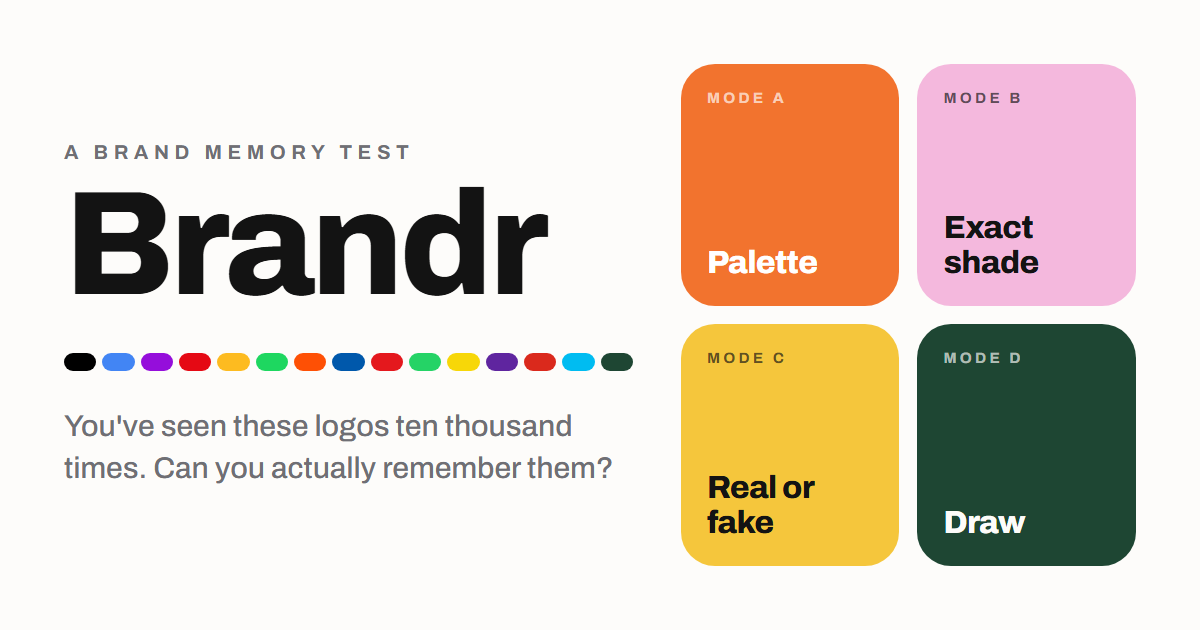
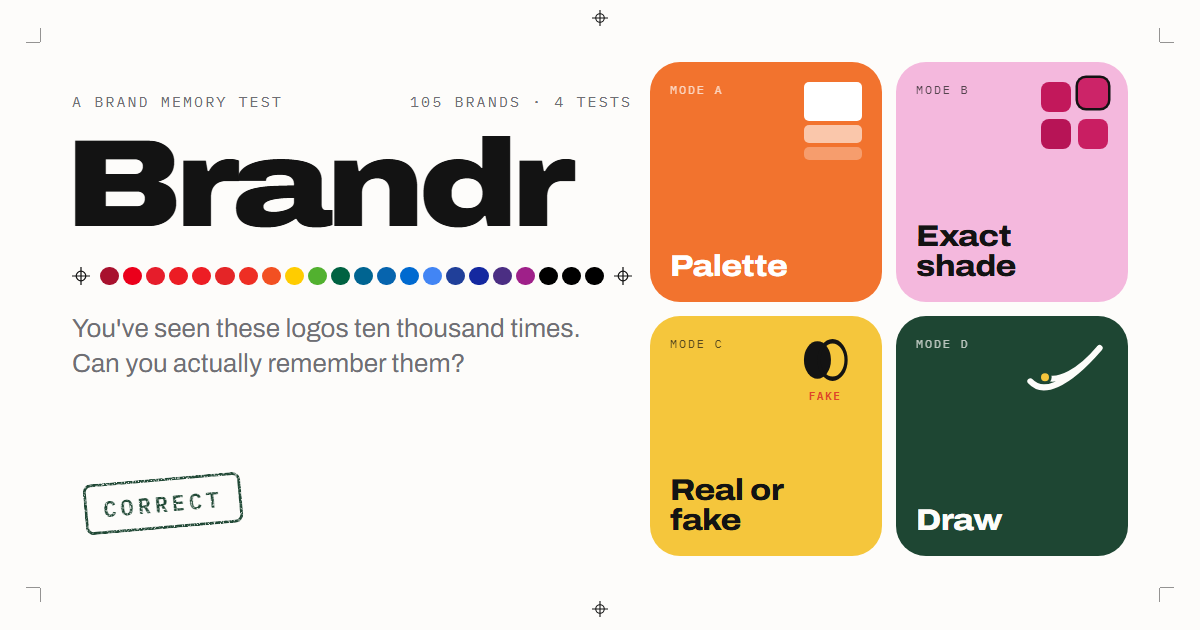
Add misprint 404, refresh share image, document the design system
A 404 page with process-color plates drifting out of register. The
Open Graph image is regenerated in the new language (expanded
wordmark, spectrum strip, mode cards with their art, a stamp). README
gains a design section; CLAUDE.md records the press-proof conventions
and the gotchas behind them. Drops the stale takedown-email TODO.

diff --git a/app/not-found.tsx b/app/not-found.tsx
@@ -1,0 +1,55 @@
+import Link from "next/link";
+
+// Process plates, drifting just out of register.
+const PLATES = [
+  { color: "#00AEEF", mx: "-6px", my: "3px" },
+  { color: "#EC008C", mx: "5px", my: "-4px" },
+  { color: "#FFE600", mx: "2px", my: "6px" },
+];
+
+export default function NotFound() {
+  return (
+    <main className="not-found app-sheet mx-auto flex h-dvh w-full max-w-md flex-col items-center justify-center overflow-hidden px-6 text-center">
+      <p className="not-found-eyebrow text-ink-muted font-mono text-[11px] tracking-[0.16em] uppercase">
+        Error 404 · Misprint
+      </p>
+      <div
+        className="misprint relative mt-4 text-[128px] leading-none font-black tracking-[-0.05em] font-stretch-expanded"
+        role="img"
+        aria-label="404"
+      >
+        {PLATES.map((p) => (
+          <span
+            key={p.color}
+            aria-hidden
+            className="misprint-plate absolute inset-0 animate-[misregister_5s_ease-in-out_infinite] mix-blend-multiply"
+            style={
+              {
+                color: p.color,
+                "--mx": p.mx,
+                "--my": p.my,
+              } as React.CSSProperties
+            }
+          >
+            404
+          </span>
+        ))}
+        <span aria-hidden className="misprint-key relative mix-blend-multiply">
+          404
+        </span>
+      </div>
+      <h1 className="not-found-title mt-6 text-xl font-extrabold tracking-[-0.02em] font-stretch-semi-expanded">
+        This page never made it to press.
+      </h1>
+      <p className="not-found-note text-ink-muted mt-1.5 text-sm">
+        The plates slipped — or the page never existed.
+      </p>
+      <Link
+        href="/"
+        className="not-found-home pressable bg-ink text-paper mt-8 rounded-full px-6 py-3.5 font-bold"
+      >
+        Back to the start
+      </Link>
+    </main>
+  );
+}

diff --git a/README.md b/README.md
@@ -32,9 +32,39 @@ npm run build   # fully static — deploys to Vercel as-is
   ([lib/color.ts](lib/color.ts)), and crop windows are fixed when a session is built.
 - **Shared shell** — every mode renders inside [components/RoundShell.tsx](components/RoundShell.tsx)
   and ends on [components/RevealScreen.tsx](components/RevealScreen.tsx) (real logo, tappable
-  hex chips, fun fact). The progress bar is a printer's color bar: each correct round fills a
-  chip with that brand's real primary color — it is also the future share card.
+  spec chips, fun fact). A round runs question → feedback (the verdict shown in place for
+  750 ms) → reveal ([app/play/PlayClient.tsx](app/play/PlayClient.tsx)). The progress bar is a
+  printer's color bar: each correct round inks a chip with that brand's real primary color.
 - No backend, no state library. Session-only state, `sessionStorage` for best streak.
+
+## Design: the press proof
+
+Brands live and die by spec sheets, so the game is staged as a print-shop proofing session.
+The flat color-block bento is the chrome; game surfaces stay neutral so the logos supply the
+color; prepress furniture does the rest.
+
+- **Print furniture as utilities** ([app/globals.css](app/globals.css)) — `crop-marks` trims
+  any stimulus like a press proof (drawn as backgrounds, so scroll containers never clip them),
+  `stamp` + `ink-texture` make rubber-stamp verdicts with speckled ink from a thresholded
+  `feTurbulence` mask, and registration targets ([components/RegMark.tsx](components/RegMark.tsx))
+  bracket every color bar.
+- **Type** — Archivo's variable width axis does the heavy lifting: expanded (125%) for display,
+  regular for UI, IBM Plex Mono for job-ticket labels.
+- **Intro** ([components/Intro.tsx](components/Intro.tsx)) — a mosaic of the roster's real colors
+  pops in, sorts itself into a spectrum, then pours into the home page's calibration strip while
+  the wordmark FLIPs onto the title; every piece lands on its live counterpart, so the hand-off
+  is seamless. A pre-paint gate script keeps the static page from flashing first.
+- **Motion with meaning** — each home card animates its own mechanic
+  ([components/ModeArt.tsx](components/ModeArt.tsx)); the question's stimulus morphs into the
+  reveal via the View Transitions API; streaks pop, chips take ink, the clock ticks red.
+  Reduced-motion users get clean stills.
+- **Share card** ([lib/shareCard.ts](lib/shareCard.ts)) — the finished run as a 1080×1350 press
+  proof (score, rank stamp, color bar, every logo played), drawn by hand on a canvas in the
+  page's own fonts and handed to the native share sheet; desktop saves it and copies an emoji
+  grid instead.
+- **Feel** — haptics on Android for verdicts and the last seconds, 1–4/A–D/R/F/Enter on a
+  keyboard, coalesced-pointer + quadratic smoothing on the drawing pad, and a phone-width sheet
+  on a cutting mat on desktop.
 
 ## Data pipeline
 
@@ -50,5 +80,4 @@ npm run build   # fully static — deploys to Vercel as-is
 - **Fun facts and remaining hex values are best-effort** — verify against official brand
   guidelines before launch (PRD §12 note). PNG-based assets can't be auto-synced; check
   those brands' colors by eye.
-- Replace the placeholder takedown email in [app/page.tsx](app/page.tsx).
 - Pick the real product name (PRD open decision #1).

diff --git a/CLAUDE.md b/CLAUDE.md
@@ -17,7 +17,25 @@ Vercel via GitHub pushes to `main`.
   to chrome only (home cards, results bento, verdict pills).
 - App screens are `h-dvh overflow-hidden` frames with an internal `overflow-y-auto`
   region; fixed-height blocks inside flex columns need `shrink-0` or they get crushed on
-  short viewports.
+  short viewports. Scroll regions use `-mx-4 px-4` so rings and shakes at the content edge
+  aren't clipped. `overflow-hidden` on a grid item zeroes its automatic min height — keep it
+  off cards whose rows must grow to fit content.
+
+## Design system: the press proof
+
+- Prepress furniture is the motif: `crop-marks` (wrap a stimulus; marks live in its
+  padding), `stamp` + `ink-texture` (verdicts; color from `text-*`, tilt via `--tilt`),
+  `RegMark` at both ends of every color bar. IBM Plex Mono uppercase for labels; Archivo
+  `font-stretch-expanded` for display, `semi-expanded` for headings.
+- Rounds go question → feedback → reveal. During feedback, question components get the
+  `answered` result and show the verdict in place; keyboard input goes through
+  `lib/useHotkeys.ts`.
+- One `vt-stage` element per screen (the stimulus / main logo) — it's the View Transitions
+  shared element; duplicates abort the morph.
+- Animate with `translate`/`scale` properties, not `transform`, on anything `.pressable`
+  (fill-mode `both` would pin the transform and kill the press). Reduced motion shows base
+  styles, so every looping illustration needs a sensible resting state.
+- Next's bundled React has no `useEffectEvent`; use a ref.
 
 ## Data & assets
 
